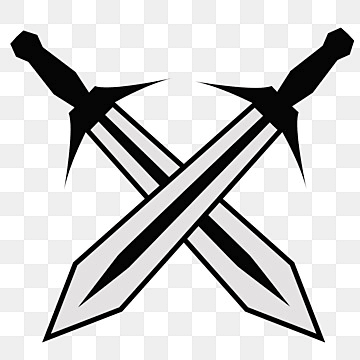
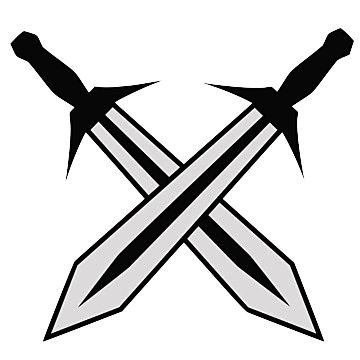
Visual updates for fixtures page

diff --git a/src/App.css b/src/App.css
@@ -6,10 +6,10 @@
 
 /* ── Variables ────────────────────────────────────── */
 :root {
-  --bg:          #0d1f0f;
-  --bg-card:     #132916;
-  --bg-card-alt: #1a3320;
-  --border:      #2a4a2f;
+  --bg:          #091508;
+  --bg-card:     #1a2119;
+  --bg-card-alt: #202820;
+  --border:      #2a332a;
   --gold:        #c9a84c;
   --gold-light:  #e8c97a;
   --text:        #e8ede9;
@@ -25,7 +25,8 @@
   --radius-md: 10px;
   --radius-lg: 14px;
 
-  --shadow: 0 2px 12px rgba(0, 0, 0, 0.4);
+  --card-shadow: 0 4px 24px rgba(0, 0, 0, 0.55);
+  --card-border: rgba(255, 255, 255, 0.18);
 }
 
 /* ── Reset ────────────────────────────────────────── */
@@ -34,7 +35,15 @@
 html { font-size: 16px; }
 
 body {
-  background: var(--bg);
+  background-color: var(--bg);
+  background-image:
+    repeating-linear-gradient(
+      0deg,
+      transparent,
+      transparent 64px,
+      rgba(255, 255, 255, 0.055) 64px,
+      rgba(255, 255, 255, 0.055) 128px
+    );
   color: var(--text);
   font-family: var(--font-body);
   line-height: 1.5;
@@ -223,9 +232,10 @@ button { cursor: pointer; font-family: inherit; }
 /* ── Match Card ───────────────────────────────────── */
 .match-card {
   background: var(--bg-card);
-  border: 1px solid var(--border);
+  border: 1px solid var(--card-border);
   border-radius: var(--radius-md);
-  padding: 0.6rem 0.75rem;
+  overflow: hidden;
+  box-shadow: var(--card-shadow);
   transition: opacity 0.2s;
 }
 
@@ -238,13 +248,6 @@ button { cursor: pointer; font-family: inherit; }
   letter-spacing: 0.1em;
   color: var(--text-muted);
   margin-bottom: 0.5rem;
-}
-
-.match-card__body {
-  display: grid;
-  grid-template-columns: 1fr auto 1fr;
-  align-items: center;
-  gap: 1rem;
 }
 
 /* ── Avatar Bubble ────────────────────────────────── */
@@ -275,30 +278,13 @@ button { cursor: pointer; font-family: inherit; }
   font-size: 1.1rem;
 }
 
-/* ── Team Side ────────────────────────────────────── */
-.team-side {
-  display: flex;
-  align-items: center;
-  gap: 0.75rem;
-}
-
-.team-side--right {
-  flex-direction: row-reverse;
-  justify-self: end;
-}
-
-.team-side__info {
-  display: flex;
-  flex-direction: column;
-  align-items: center;
-  gap: 0.35rem;
-}
+.avatar-bubble--dim { opacity: 0.3; }
+.team-info--dim     { opacity: 0.3; }
 
 .team-side__name {
   font-weight: 600;
   font-size: 0.9rem;
   text-align: center;
-  white-space: nowrap;
 }
 
 .team-flag {
@@ -320,25 +306,88 @@ button { cursor: pointer; font-family: inherit; }
   height: 27px;
 }
 
-/* ── Match Centre ─────────────────────────────────── */
-.match-card__centre {
+/* ── Card Header ──────────────────────────────────── */
+.match-card__header {
   display: flex;
-  flex-direction: column;
+  justify-content: space-between;
   align-items: center;
-  gap: 0.4rem;
+  gap: 0.5rem;
+  background: var(--bg-card-alt);
+  padding: 0.5rem 0.75rem;
+  margin-bottom: 0.6rem;
+  border-bottom: 1px solid var(--border);
+  border-radius: 0 0 var(--radius-md) var(--radius-md);
+  line-height: 1;
 }
 
 .match-card__versus {
   display: flex;
   align-items: center;
-  gap: 0.6rem;
+  gap: 0.4rem;
+  flex-shrink: 0;
 }
 
 .match-card__username {
-  font-size: 0.75rem;
+  font-size: 0.78rem;
   font-weight: 600;
   letter-spacing: 0.03em;
   white-space: nowrap;
+}
+
+.match-card__vs-text {
+  font-size: 0.72rem;
+  color: var(--text-muted);
+  text-transform: uppercase;
+  letter-spacing: 0.08em;
+}
+
+/* ── Card Body ────────────────────────────────────── */
+.match-card__body {
+  display: grid;
+  grid-template-columns: auto 1fr auto 1fr auto;
+  align-items: center;
+  gap: 0.75rem;
+  padding: 0.35rem 0.75rem 0.4rem;
+}
+
+.team-info {
+  display: flex;
+  flex-direction: column;
+  align-items: center;
+  gap: 0.35rem;
+  justify-self: center;
+}
+
+.match-card__swords {
+  display: flex;
+  align-items: center;
+  justify-content: center;
+  flex-shrink: 0;
+}
+
+/* ── Card Footer ──────────────────────────────────── */
+.match-card__footer {
+  display: flex;
+  justify-content: center;
+  align-items: center;
+  background: var(--bg-card-alt);
+  padding: 0.4rem 0.75rem;
+  margin-top: 0.4rem;
+  border-top: 1px solid var(--border);
+  border-radius: var(--radius-md) var(--radius-md) 0 0;
+  line-height: 1;
+}
+
+.score--tbd {
+  color: var(--text-muted);
+  font-size: 1rem;
+}
+
+.vs-swords {
+  width: 32px;
+  height: 32px;
+  object-fit: contain;
+  opacity: 0.85;
 }
 
 .score {
@@ -362,9 +411,10 @@ button { cursor: pointer; font-family: inherit; }
 
 .group-card {
   background: var(--bg-card);
-  border: 1px solid var(--border);
+  border: 1px solid var(--card-border);
   border-radius: var(--radius-lg);
   overflow: hidden;
+  box-shadow: var(--card-shadow);
 }
 
 .group-card__title {
@@ -569,18 +619,59 @@ button { cursor: pointer; font-family: inherit; }
 
 /* ── Responsive ───────────────────────────────────── */
 @media (max-width: 600px) {
-  .match-card__teams {
-    grid-template-columns: 1fr auto 1fr;
-    gap: 0.4rem;
+  /* Tighter app shell */
+  .app { padding: 0 0.75rem 3rem; }
+
+  /* Header */
+  .app-header { padding: 1.5rem 0 1rem; }
+
+  /* User filter: single scrollable row instead of wrapping grid */
+  .user-filter__chips {
+    flex-wrap: nowrap;
+    overflow-x: auto;
+    padding-bottom: 0.25rem;
+    -webkit-overflow-scrolling: touch;
+  }
+  .user-filter__chips::-webkit-scrollbar { display: none; }
+  .user-chip { flex-shrink: 0; }
+
+  /* Match cards */
+  .match-card { padding: 0.5rem 0.6rem; }
+
+  .match-card__body { gap: 0.5rem; }
+
+  .avatar-bubble {
+    width: 44px;
+    height: 44px;
   }
 
-  .team-name { font-size: 0.82rem; }
+  .team-side { gap: 0.4rem; }
+
+  .team-side__name { font-size: 0.78rem; }
+
+  .team-flag--md {
+    width: 26px;
+    height: 19px;
+  }
+
+  .match-card__header { padding-bottom: 0.35rem; margin-bottom: 0.35rem; }
+
+  .match-card__versus { gap: 0.3rem; }
+
+  .match-card__username { font-size: 0.7rem; }
+
   .score { font-size: 1.1rem; }
 
-  .groups-grid { grid-template-columns: 1fr; }
+  .vs-swords {
+    width: 24px;
+    height: 24px;
+  }
 
+  /* Groups: single column */
+  .groups-grid { grid-template-columns: 1fr; }
   .standings-table { font-size: 0.75rem; }
   .col-owner { display: none; }
 
-  .bracket-round { min-width: 170px; }
+  /* Knockout */
+  .bracket-round { min-width: 150px; }
 }

diff --git a/src/components/Fixtures.jsx b/src/components/Fixtures.jsx
@@ -16,10 +16,10 @@ function groupByDate(fixtureList) {
   }, {})
 }
 
-function AvatarBubble({ user }) {
+function AvatarBubble({ user, dimmed }) {
   return (
     <div
-      className="avatar-bubble"
+      className={`avatar-bubble${dimmed ? ' avatar-bubble--dim' : ''}`}
       style={{ '--colour': user?.colour || 'var(--border)' }}
     >
       {user
@@ -35,26 +35,23 @@ function AvatarBubble({ user }) {
   )
 }
 
-function TeamSide({ team, user, align }) {
+function TeamInfo({ team, dimmed }) {
   const info = team ? assignments[team] : null
   const flagSrc = info
     ? `https://cdn.jsdelivr.net/gh/lipis/flag-icons/flags/4x3/${info.flag}.svg`
     : null
 
   return (
-    <div className={`team-side team-side--${align}`}>
-      <AvatarBubble user={user} />
-      <div className="team-side__info">
-        {flagSrc && (
-          <img
-            src={flagSrc}
-            alt=""
-            className="team-flag team-flag--md"
-            onError={e => { e.target.style.display = 'none' }}
-          />
-        )}
-        <span className="team-side__name">{team || 'TBD'}</span>
-      </div>
+    <div className={`team-info${dimmed ? ' team-info--dim' : ''}`}>
+      {flagSrc && (
+        <img
+          src={flagSrc}
+          alt=""
+          className="team-flag team-flag--md"
+          onError={e => { e.target.style.display = 'none' }}
+        />
+      )}
+      <span className="team-side__name">{team || 'TBD'}</span>
     </div>
   )
 }
@@ -71,29 +68,46 @@ function MatchCard({ fixture, highlightUsers }) {
     (awayUser && highlightUsers.includes(awayUser.slug))
 
   const isPlayed = fixture.homeScore !== null && fixture.awayScore !== null
+  const homeLoses = isPlayed && fixture.homeScore < fixture.awayScore
+  const awayLoses = isPlayed && fixture.awayScore < fixture.homeScore
   const stageLabel = fixture.group ? `Group ${fixture.group}` : fixture.stage.toUpperCase()
 
   return (
     <div className={`match-card ${!isHighlighted ? 'match-card--dim' : ''} ${isPlayed ? 'match-card--played' : ''}`}>
-      <div className="match-card__body">
-        <TeamSide team={fixture.home} user={homeUser} align="left" />
-        <div className="match-card__centre">
-          <span className="match-card__meta">{stageLabel} · {fixture.time} BST</span>
-          <div className="match-card__versus">
-            <span className="match-card__username" style={{ color: homeUser?.colour }}>
-              {homeUser?.name || '—'}
-            </span>
-            {isPlayed
-              ? <span className="score">{fixture.homeScore} – {fixture.awayScore}</span>
-              : <span className="score score--upcoming">vs</span>
-            }
-            <span className="match-card__username" style={{ color: awayUser?.colour }}>
-              {awayUser?.name || '—'}
-            </span>
-          </div>
+
+      {/* ── Header: meta + usernames ── */}
+      <div className="match-card__header">
+        <span className="match-card__meta">{stageLabel} · {fixture.time} BST</span>
+        <div className="match-card__versus">
+          <span className="match-card__username" style={{ color: homeUser?.colour }}>
+            {homeUser?.name || '—'}
+          </span>
+          <span className="match-card__vs-text">vs</span>
+          <span className="match-card__username" style={{ color: awayUser?.colour }}>
+            {awayUser?.name || '—'}
+          </span>
         </div>
-        <TeamSide team={fixture.away} user={awayUser} align="right" />
       </div>
+
+      {/* ── Body: avatar | team-info | swords | team-info | avatar ── */}
+      <div className="match-card__body">
+        <AvatarBubble user={homeUser} dimmed={homeLoses} />
+        <TeamInfo team={fixture.home} dimmed={homeLoses} />
+        <div className="match-card__swords">
+          <img src={`${import.meta.env.BASE_URL}assets/vs_swords.png`} alt="vs" className="vs-swords" />
+        </div>
+        <TeamInfo team={fixture.away} dimmed={awayLoses} />
+        <AvatarBubble user={awayUser} dimmed={awayLoses} />
+      </div>
+
+      {/* ── Footer: score ── */}
+      <div className="match-card__footer">
+        {isPlayed
+          ? <span className="score">{fixture.homeScore} – {fixture.awayScore}</span>
+          : <span className="score score--tbd">TBD – TBD</span>
+        }
+      </div>
+
     </div>
   )
 }